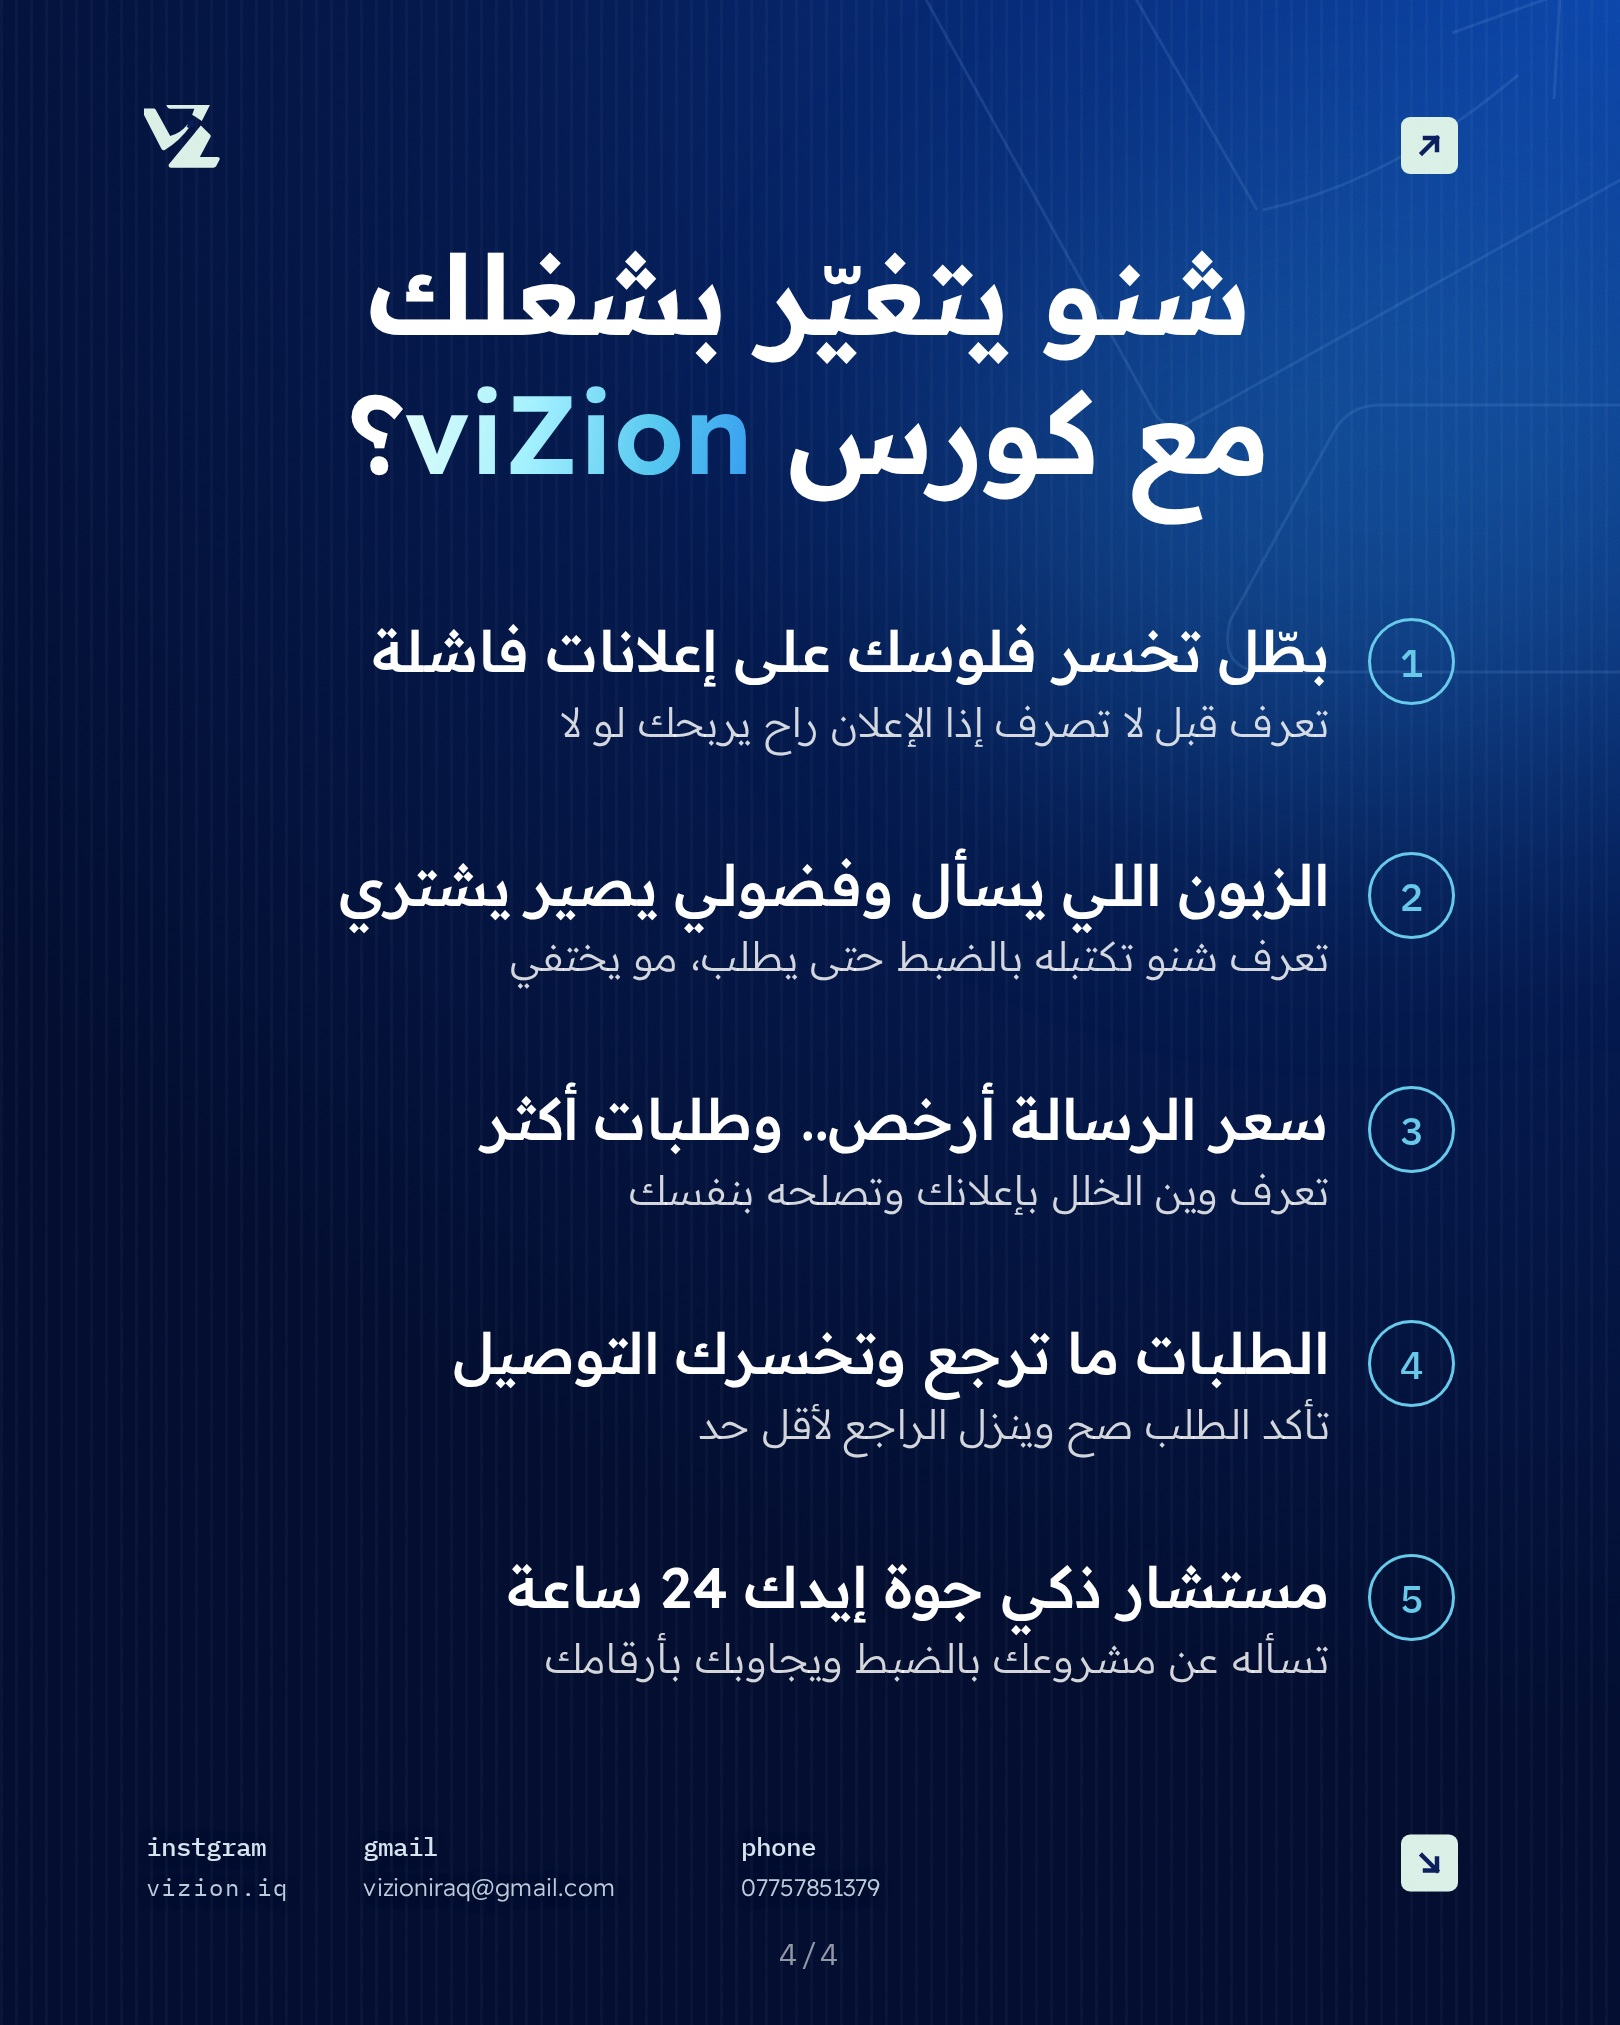
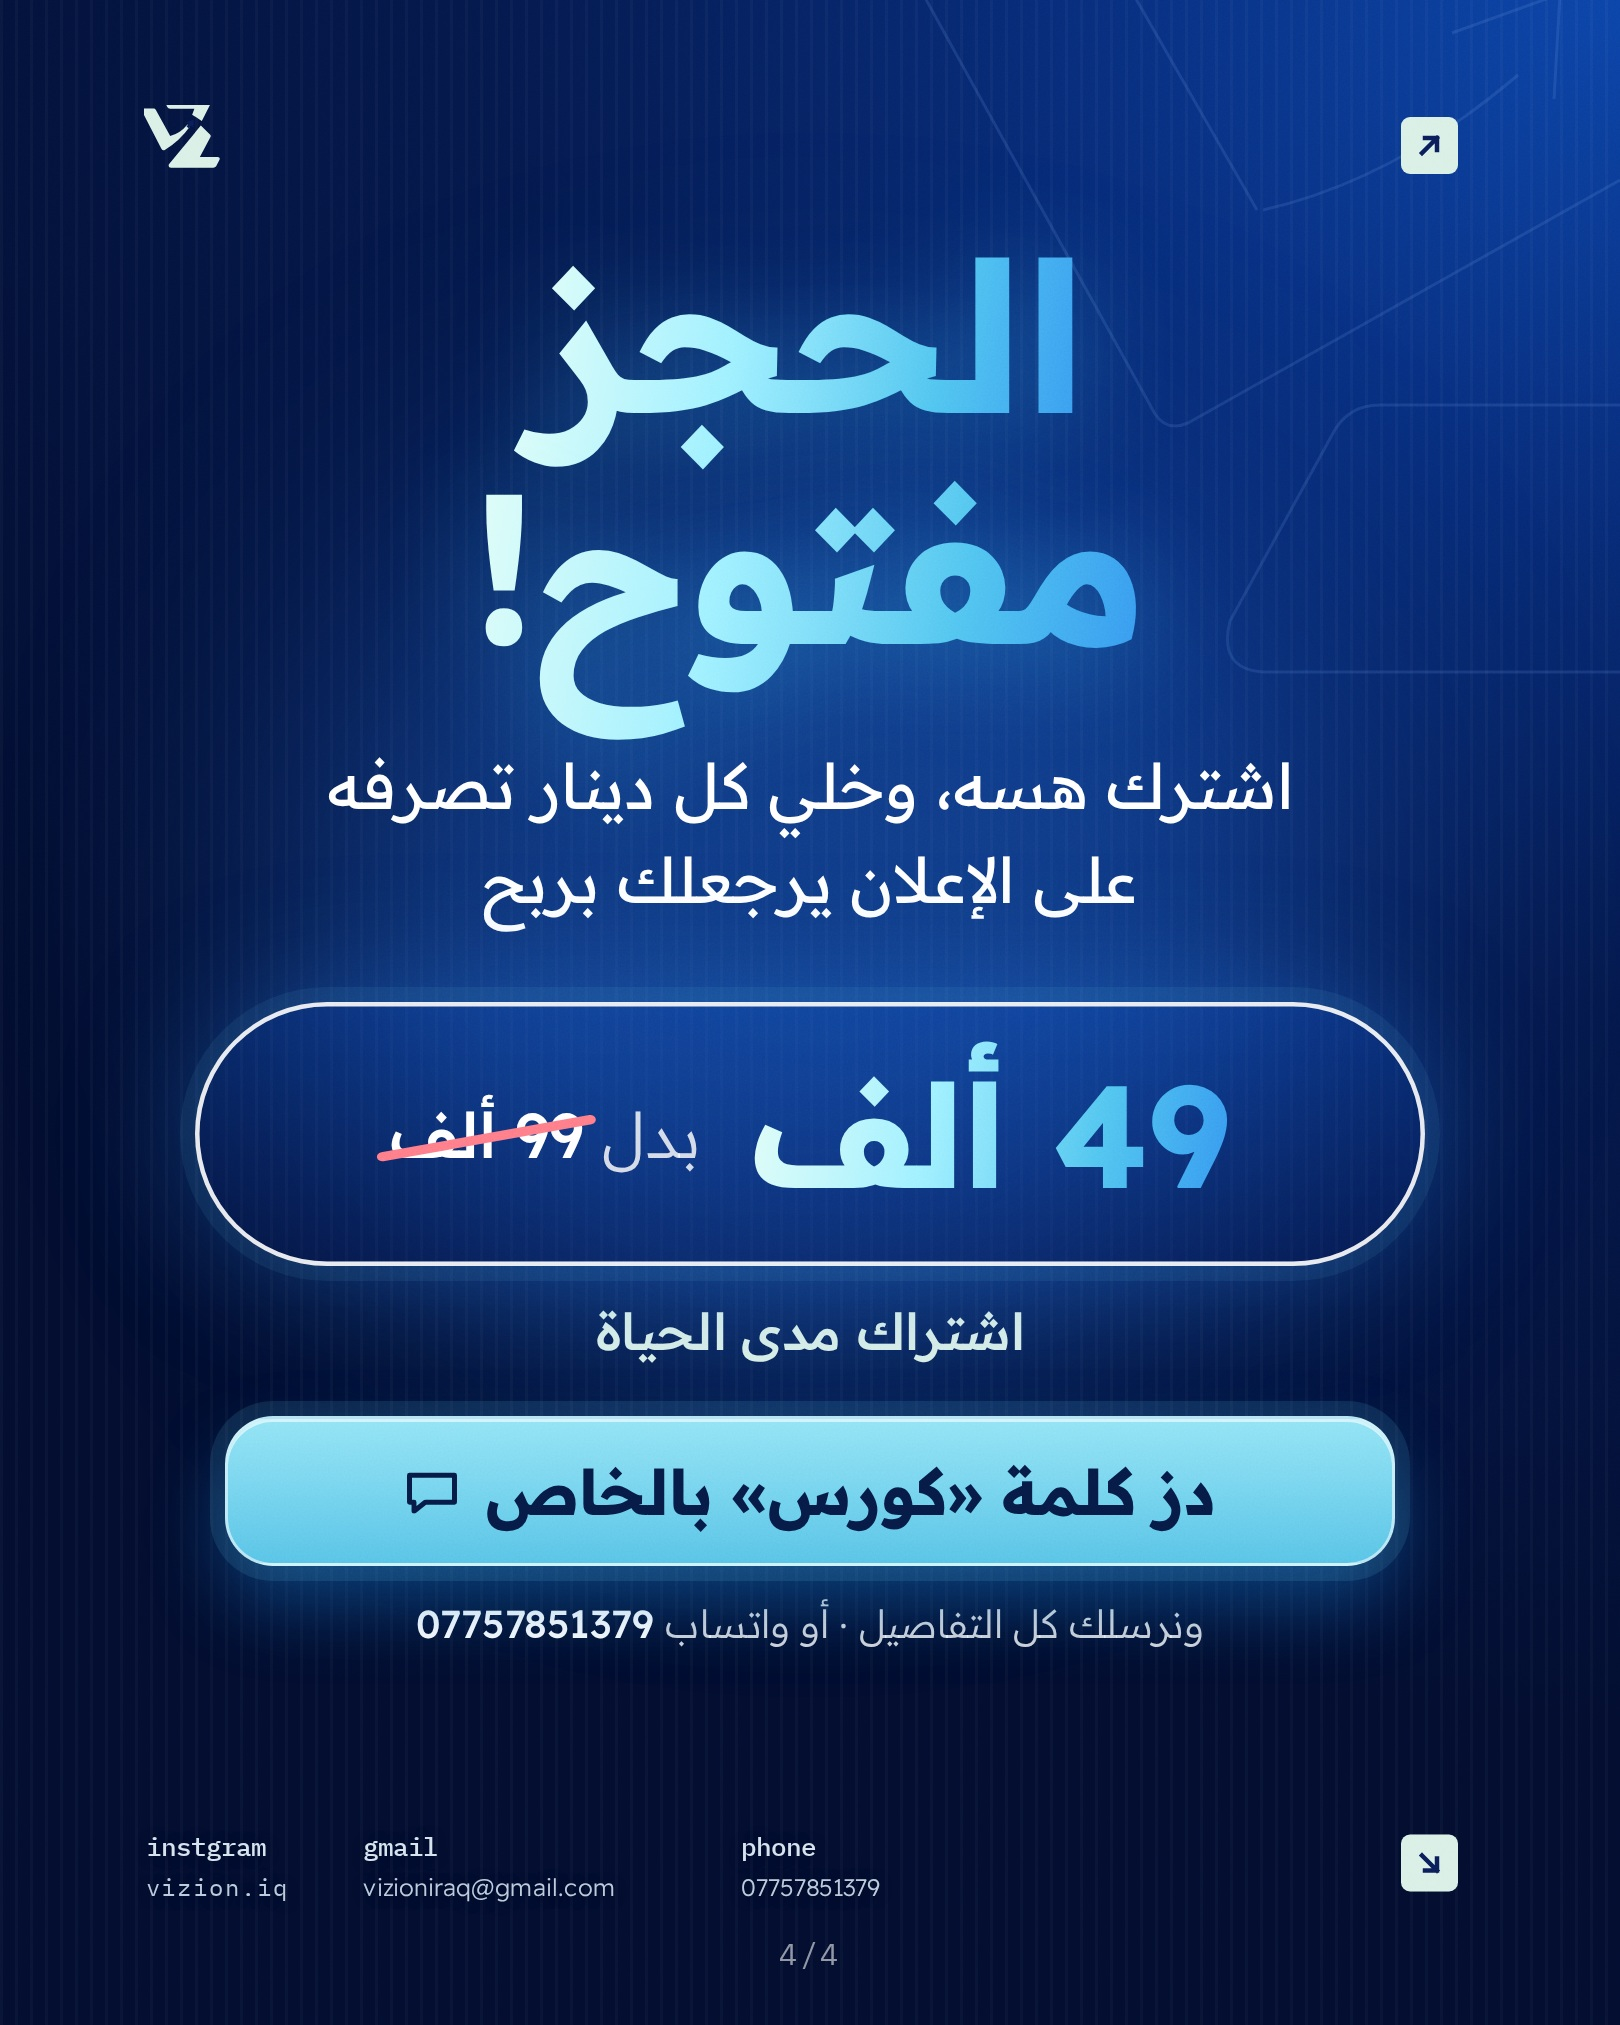
viZion carousel: one DM keyword, offer last, «كورس viZion» on the cover
Claude-Session: https://claude.ai/code/session_013oWw8PeK3nbdaZG97hkGWn

diff --git a/marketing/vizion-results-carousel/carousel.html b/marketing/vizion-results-carousel/carousel.html
@@ -70,6 +70,16 @@
     font-family: "IBM Plex Mono", monospace; font-size: 26px; font-weight: 500; color: var(--cyan); margin-top: 2px; }
   .li .t { font-size: 38px; font-weight: 500; line-height: 1.3; }
   .li .d { font-size: 27px; font-weight: 300; color: var(--soft); line-height: 1.4; margin-top: 4px; }
+
+  /* the DM call to action */
+  .dmpill { direction: rtl; display: inline-flex; align-items: center; gap: 12px; padding: 12px 30px; border-radius: 99px; font-size: 32px; font-weight: 500; color: #071a45;
+    background: linear-gradient(180deg, #8fe3f5 0%, #57c2e6 100%); border: 2px solid rgba(255,255,255,.55);
+    box-shadow: inset 0 2px 0 rgba(255,255,255,.6), 0 0 0 8px rgba(98,198,233,.12), 0 18px 40px rgba(20,120,200,.45); }
+  .dmpill b { font-weight: 700; }
+  .cta { position: absolute; left: 150px; right: 150px; height: 100px; border-radius: 32px; direction: rtl; z-index: 6;
+    background: linear-gradient(180deg, #8fe3f5 0%, #57c2e6 100%); border: 2px solid rgba(255,255,255,0.55);
+    box-shadow: inset 0 2px 0 rgba(255,255,255,0.6), 0 0 0 10px rgba(98,198,233,0.12), 0 24px 50px rgba(20,120,200,0.45);
+    color: #071a45; font-size: 42px; font-weight: 700; display: flex; align-items: center; justify-content: center; gap: 18px; }
 </style>
 </head>
 <body>
@@ -107,22 +117,25 @@
   </div>
 </template>
 
-<!-- 1 · the result, the chat, a pointer. Nothing else. -->
+<!-- 1 · the result, the chat, a pointer, and what to send -->
 <section class="slide" id="s1">
-  <div class="glow" style="left:240px;top:560px;width:600px;height:600px;background:rgba(40,130,255,.38)"></div>
-  <div class="center" style="top:146px">
+  <div class="glow" style="left:240px;top:520px;width:600px;height:600px;background:rgba(40,130,255,.38)"></div>
+  <div class="center" style="top:136px">
     <div style="font-size:50px;font-weight:500;line-height:1.3">صرف <span class="num cyan" style="font-weight:700">$70</span> بس.. ورجعتله</div>
     <div><span class="grad" style="font-size:112px;font-weight:700;line-height:1.2;white-space:nowrap;filter:drop-shadow(0 8px 34px rgba(60,190,255,.35))">مليون و475 ألف</span></div>
-    <div style="font-size:40px;font-weight:400;line-height:1.3;margin-top:2px">بأول تطبيق لتعليمات <span class="cyan" style="font-weight:600">viZion</span>!</div>
+    <div style="font-size:40px;font-weight:400;line-height:1.3;margin-top:2px">بأول تطبيق لتعليمات <span class="cyan" style="font-weight:600">كورس viZion</span>!</div>
   </div>
-  <!-- dm-results at 510px wide: the numbers message is y 241–428, x 8–429 -->
-  <div class="shot" style="left:260px;top:468px;width:560px">
+  <!-- dm-results at 480px wide: the numbers message is y 227–403, x 8–404 -->
+  <div class="shot" style="left:275px;top:430px;width:530px">
     <img src="shots/dm-results.jpg" alt="" />
   </div>
-  <div class="select" style="left:279px;top:720px;width:449px;height:215px">
+  <div class="select" style="left:294px;top:668px;width:424px;height:204px">
     <span class="h tl"></span><span class="h tr"></span><span class="h bl"></span><span class="h br"></span><span class="h ml"></span><span class="h mr"></span>
   </div>
-  <svg class="cursor" style="left:677px;top:906px" viewBox="0 0 17 17"></svg>
+  <svg class="cursor" style="left:667px;top:844px" viewBox="0 0 17 17"></svg>
+  <div style="position:absolute;left:0;right:0;top:1122px;display:flex;justify-content:center;z-index:8">
+    <div class="dmpill">دز كلمة <b>«كورس»</b> بالخاص <svg width="30" height="24" viewBox="0 0 24 20"><path d="M2 3 L22 3 L22 15 L9 15 L4 19 L4 15 L2 15 Z" fill="none" stroke="#071a45" stroke-width="2.2" stroke-linejoin="round"/></svg></div>
+  </div>
 </section>
 
 <!-- 2 · 230+ subscribers -->
@@ -138,38 +151,45 @@
   </div>
 </section>
 
-<!-- 3 · booking is open -->
+<!-- 3 · what changes in your business -->
 <section class="slide" id="s3">
-  <div class="glow" style="left:200px;top:300px;width:680px;height:620px;background:rgba(40,130,255,.34)"></div>
-  <div class="center" style="top:170px">
-    <div><span class="grad" style="font-size:150px;font-weight:700;line-height:1.1;filter:drop-shadow(0 8px 34px rgba(60,190,255,.35))">الحجز</span></div>
-    <div><span class="grad" style="font-size:150px;font-weight:700;line-height:1.1;filter:drop-shadow(0 8px 34px rgba(60,190,255,.35))">مفتوح!</span></div>
-  </div>
-  <div class="center" style="top:568px;font-size:44px;font-weight:400;line-height:1.5">
-    اشترك هسه، وخلي كل دينار تصرفه<br />على الإعلان يرجعلك بربح
-  </div>
-  <div class="price" style="top:800px">
-    <span style="font-size:96px;font-weight:700;line-height:1" class="grad">49 ألف</span>
-    <span style="font-size:42px;font-weight:300;color:var(--soft)">بدل
-      <span style="position:relative;display:inline-block;font-weight:500;color:#fff">99 ألف<svg viewBox="0 0 100 30" preserveAspectRatio="none" style="position:absolute;left:-6%;top:18%;width:112%;height:70%;overflow:visible"><path d="M2 26 L98 6" stroke="#ff7a86" stroke-width="5" stroke-linecap="round"/></svg></span>
-    </span>
-  </div>
-  <div class="center" style="top:1006px;font-size:34px;font-weight:500;color:var(--mint)">اشتراك مدى الحياة</div>
-  <div class="center" style="top:1076px;font-size:27px;font-weight:300;color:var(--soft)">للحجز دزلنا بالخاص، أو واتساب <span class="num" style="font-weight:500;color:#fff">07757851379</span></div>
-</section>
-
-<!-- 4 · what changes in your business -->
-<section class="slide" id="s4">
   <div class="glow" style="right:-120px;top:120px;width:560px;height:400px;background:rgba(60,190,255,.20)"></div>
   <div class="center" style="top:150px">
     <div style="font-size:74px;font-weight:600;line-height:1.25">شنو يتغيّر بشغلك</div>
     <div style="font-size:74px;font-weight:600;line-height:1.25">مع كورس <span class="grad">viZion</span>؟</div>
   </div>
-  <div class="li" style="top:410px"><span class="n">1</span><div><div class="t">بطّل تخسر فلوسك على إعلانات فاشلة</div><div class="d">تعرف قبل لا تصرف إذا الإعلان راح يربحك لو لا</div></div></div>
-  <div class="li" style="top:566px"><span class="n">2</span><div><div class="t">الزبون اللي يسأل وفضولي يصير يشتري</div><div class="d">تعرف شنو تكتبله بالضبط حتى يطلب، مو يختفي</div></div></div>
-  <div class="li" style="top:722px"><span class="n">3</span><div><div class="t">سعر الرسالة أرخص.. وطلبات أكثر</div><div class="d">تعرف وين الخلل بإعلانك وتصلحه بنفسك</div></div></div>
-  <div class="li" style="top:878px"><span class="n">4</span><div><div class="t">الطلبات ما ترجع وتخسرك التوصيل</div><div class="d">تأكد الطلب صح وينزل الراجع لأقل حد</div></div></div>
-  <div class="li" style="top:1034px"><span class="n">5</span><div><div class="t">مستشار ذكي جوة إيدك 24 ساعة</div><div class="d">تسأله عن مشروعك بالضبط ويجاوبك بأرقامك</div></div></div>
+  <div class="li" style="top:400px"><span class="n">1</span><div><div class="t">بطّل تخسر فلوسك على إعلانات فاشلة</div><div class="d">تعرف قبل لا تصرف إذا الإعلان راح يربحك لو لا</div></div></div>
+  <div class="li" style="top:546px"><span class="n">2</span><div><div class="t">الزبون اللي يسأل وفضولي يصير يشتري</div><div class="d">تعرف شنو تكتبله بالضبط حتى يطلب، مو يختفي</div></div></div>
+  <div class="li" style="top:692px"><span class="n">3</span><div><div class="t">سعر الرسالة أرخص.. وطلبات أكثر</div><div class="d">تعرف وين الخلل بإعلانك وتصلحه بنفسك</div></div></div>
+  <div class="li" style="top:838px"><span class="n">4</span><div><div class="t">الطلبات ما ترجع وتخسرك التوصيل</div><div class="d">تأكد الطلب صح وينزل الراجع لأقل حد</div></div></div>
+  <div class="li" style="top:984px"><span class="n">5</span><div><div class="t">مستشار ذكي جوة إيدك 24 ساعة</div><div class="d">تسأله عن مشروعك بالضبط ويجاوبك بأرقامك</div></div></div>
+  <div style="position:absolute;right:110px;top:1140px;direction:rtl;display:flex;align-items:center;gap:12px;font-size:28px;font-weight:500;color:var(--cyan)">
+    اسحب وشوف السعر
+    <svg width="40" height="22" viewBox="0 0 40 22"><path d="M38 11 H4 M13 2 L3 11 L13 20" fill="none" stroke="#62c6e9" stroke-width="3" stroke-linecap="round" stroke-linejoin="round"/></svg>
+  </div>
+</section>
+
+<!-- 4 · booking is open: the price, and exactly what to send -->
+<section class="slide" id="s4">
+  <div class="glow" style="left:200px;top:300px;width:680px;height:620px;background:rgba(40,130,255,.34)"></div>
+  <div class="center" style="top:146px">
+    <div><span class="grad" style="font-size:140px;font-weight:700;line-height:1.1;filter:drop-shadow(0 8px 34px rgba(60,190,255,.35))">الحجز</span></div>
+    <div><span class="grad" style="font-size:140px;font-weight:700;line-height:1.1;filter:drop-shadow(0 8px 34px rgba(60,190,255,.35))">مفتوح!</span></div>
+  </div>
+  <div class="center" style="top:492px;font-size:42px;font-weight:400;line-height:1.5">
+    اشترك هسه، وخلي كل دينار تصرفه<br />على الإعلان يرجعلك بربح
+  </div>
+  <div class="price" style="top:668px">
+    <span style="font-size:96px;font-weight:700;line-height:1" class="grad">49 ألف</span>
+    <span style="font-size:42px;font-weight:300;color:var(--soft)">بدل
+      <span style="position:relative;display:inline-block;font-weight:500;color:#fff">99 ألف<svg viewBox="0 0 100 30" preserveAspectRatio="none" style="position:absolute;left:-6%;top:18%;width:112%;height:70%;overflow:visible"><path d="M2 26 L98 6" stroke="#ff7a86" stroke-width="5" stroke-linecap="round"/></svg></span>
+    </span>
+  </div>
+  <div class="center" style="top:866px;font-size:34px;font-weight:500;color:var(--mint)">اشتراك مدى الحياة</div>
+  <div class="cta" style="top:944px">دز كلمة «كورس» بالخاص
+    <svg width="36" height="30" viewBox="0 0 24 20"><path d="M2 3 L22 3 L22 15 L9 15 L4 19 L4 15 L2 15 Z" fill="none" stroke="#071a45" stroke-width="2.2" stroke-linejoin="round"/></svg>
+  </div>
+  <div class="center" style="top:1066px;font-size:26px;font-weight:300;color:var(--soft)">ونرسلك كل التفاصيل · أو واتساب <span class="num" style="font-weight:500;color:#fff">07757851379</span></div>
 </section>
 
 <script>

diff --git a/marketing/vizion-results-carousel/README.md b/marketing/vizion-results-carousel/README.md
@@ -25,6 +25,14 @@ the first and last bubbles. The chats are now cut from inside the original frame
 navy corners and border arcs blackened, and the card has 22px of black padding. Slide 3 also says how to book:
 «للحجز دزلنا بالخاص، أو واتساب 07757851379».
 
+## v2.1: built for DMs
+
+After the user asked whether it would bring DMs: one keyword to send, «كورس», on the cover (a cyan pill under the
+chat) and as the big button on the last slide («دز كلمة «كورس» بالخاص» + «ونرسلك كل التفاصيل · أو واتساب»); the
+offer moved to the end so the post finishes on the price and the button (order: result, 230+, benefits, offer); the
+benefits slide ends with «اسحب وشوف السعر ←»; the cover says «كورس viZion» so new people know it's a course. No
+deadline on the price: the user gave none, so none is invented. The caption ends on the same keyword.
+
 ## v1
 
 The first, busier five-slide version (phone mockup, zoomed numbers, profit card, before/after slide, sticker and CTA
@@ -33,4 +41,4 @@ button) is kept in `out/v1/`; its source is in git history (commit 3670883).
 Every quote and number comes from the user's original slides; the chats are cropped from their full-resolution
 images (`shots/`), nothing in them is retyped or changed. `node render.cjs` renders `carousel.html` to
 `out/slide-1.jpg` … `slide-4.jpg`. The selection box on slide 1 is placed from the screenshot's measured layout
-(at 510px wide the numbers message is y 241–428, x 8–429). `caption.txt` is the post caption.
+(at 480px wide the numbers message is y 227–403, x 8–404). `caption.txt` is the post caption.
